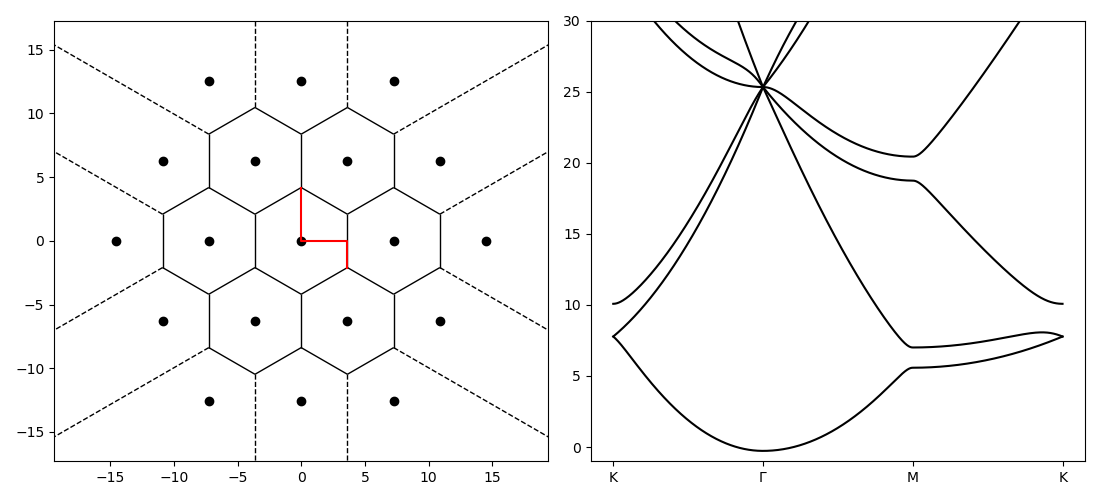
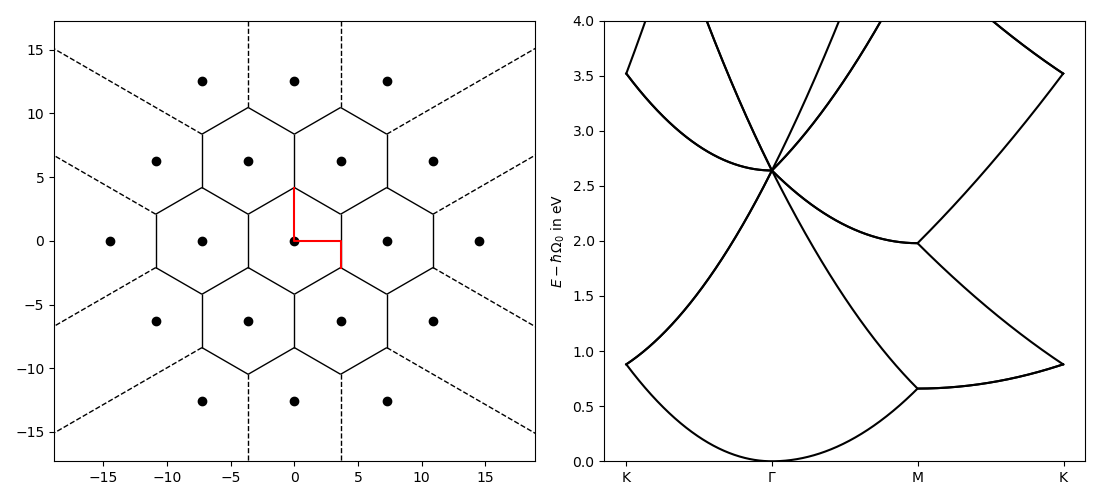
added unit prefix finder

diff --git a/bandcalc/examples/bandstructure/moire_hexagonal.py b/bandcalc/examples/bandstructure/moire_hexagonal.py
@@ -37,7 +37,7 @@ m = bandcalc.generate_reciprocal_lattice_basis(rec_m)
 
 if potential == "MoS2":
     # Moire potential coefficients
-    V = 12.4*np.exp(1j*81.5*np.pi/180)
+    V = 12.4*1e-3*np.exp(1j*81.5*np.pi/180) # in eV
     Vj = np.array([V if i%2 else np.conjugate(V) for i in range(1, 7)])
     # Reciprocal moire lattice vectors
     G = bandcalc.generate_twisted_lattice_by_shell(b, b, angle, 1)
@@ -73,7 +73,9 @@ path = bandcalc.generate_k_path(points, N)
 k_names = [r"$\kappa$", r"$\gamma$", r"$\kappa$"]
 
 # Calculate the band structure (no potential)
-bandstructure = bandcalc.calc_bandstructure(points, rec_moire_lattice, N, potential_fun)
+bandstructure, prefix = bandcalc.get_unit_prefix(
+        bandcalc.calc_bandstructure(points, rec_moire_lattice, N, potential_fun))
+
 
 # Plot the results
 
@@ -87,7 +89,7 @@ axs[0].set_xlabel(r"nm")
 axs[0].set_ylabel(r"nm")
 
 bandcalc.plot_bandstructure(axs[1], np.abs(bandstructure), k_names, "k")
-axs[1].set_ylabel(r"$E - \hbar\Omega_0$ in meV")
+axs[1].set_ylabel(r"$E - \hbar\Omega_0$ in {}eV".format(prefix))
 
 plt.tight_layout()
 plt.show()

diff --git a/bandcalc/examples/bandstructure/hexagonal.py b/bandcalc/examples/bandstructure/hexagonal.py
@@ -1,6 +1,6 @@
 import numpy as np
 import matplotlib.pyplot as plt
-from scipy.spatial import Voronoi, voronoi_plot_2d
+from scipy.spatial import Voronoi, voronoi_plot_2d #pylint: disable=E0611
 
 import bandcalc
 
@@ -26,7 +26,8 @@ path = bandcalc.generate_k_path(points, N)
 vor = Voronoi(lattice)
 
 # Calculate band structure
-bandstructure = bandcalc.calc_bandstructure(points, lattice, N)
+bandstructure, prefix = bandcalc.get_unit_prefix(
+        bandcalc.calc_bandstructure(points, lattice, N))
 
 # Plots
 fig, ax = plt.subplots(nrows=1, ncols=2, figsize=(11,5))
@@ -35,7 +36,8 @@ bandcalc.plot_k_path(ax[0], path, "r")
 voronoi_plot_2d(vor, ax[0], show_points=False, show_vertices=False)
 bandcalc.plot_bandstructure(ax[1], bandstructure, k_names, "k")
 
-ax[1].set_ylim([-1, 30])
+ax[1].set_ylabel(r"$E - \hbar\Omega_0$ in {}eV".format(prefix))
+ax[1].set_ylim([0, 4])
 
 plt.tight_layout()
 plt.show()

diff --git a/bandcalc/examples/bandstructure/quadratic.py b/bandcalc/examples/bandstructure/quadratic.py
@@ -6,7 +6,6 @@ import bandcalc
 
 # Constants
 a = 1
-V = 1
 N = 1000
 
 # Reciprocal lattice vectors
@@ -27,7 +26,8 @@ path = bandcalc.generate_k_path(points, N)
 vor = Voronoi(lattice)
 
 # Calculate band structure
-bandstructure = bandcalc.calc_bandstructure(points, lattice, N)
+bandstructure, prefix = bandcalc.get_unit_prefix(
+        bandcalc.calc_bandstructure(points, lattice, N))
 
 # Plots
 fig, ax = plt.subplots(nrows=1, ncols=2, figsize=(11,5))
@@ -36,7 +36,8 @@ bandcalc.plot_k_path(ax[0], path, "r")
 voronoi_plot_2d(vor, ax[0], show_points=False, show_vertices=False)
 bandcalc.plot_bandstructure(ax[1], bandstructure, k_names, "k")
 
-ax[1].set_ylim([-1, 30])
+ax[1].set_ylabel(r"$E - \hbar\Omega_0$ in {}eV".format(prefix))
+ax[1].set_ylim([0, 4])
 
 plt.tight_layout()
 plt.show()

diff --git a/bandcalc/examples/bandstructure/cubic.py b/bandcalc/examples/bandstructure/cubic.py
@@ -26,7 +26,8 @@ k_names = [r"$\Gamma$", r"X", r"M", r"$\Gamma$", r"R"]
 path = bandcalc.generate_k_path(points, N)
 
 # Calculate band structure
-bandstructure = bandcalc.calc_bandstructure(points, lattice, N)
+bandstructure, prefix = bandcalc.get_unit_prefix(
+        bandcalc.calc_bandstructure(points, lattice, N))
 
 # Plots
 fig = plt.figure(figsize=(11,5))
@@ -36,7 +37,8 @@ bandcalc.plot_lattice_3d(ax0, lattice, "ko")
 bandcalc.plot_k_path_3d(ax0, path, "r")
 bandcalc.plot_bandstructure(ax1, bandstructure, k_names, "k")
 
-ax1.set_ylim([-1, 30])
+ax1.set_ylabel(r"$E - \hbar\Omega_0$ in {}eV".format(prefix))
+ax1.set_ylim([0, 4])
 
 plt.tight_layout()
 plt.show()

diff --git a/bandcalc/core/tools.py b/bandcalc/core/tools.py
@@ -1,0 +1,29 @@
+import numpy as np
+
+from bandcalc.constants import unit_prefixes
+
+def get_unit_prefix(data):
+    """
+    Suggest a unit prefix for given *data*, to make it more readable
+
+    :param data: find unit prefix for this data
+
+    :type data: numpy.ndarray
+
+    :rtype: tuple(numpy.ndarray, str)
+    """
+
+    max = np.abs(data).max()
+
+    if max == 0:
+        return (data, "")
+
+    exponent = int(np.floor(np.log(max)/np.log(1000)))*3
+
+    if exponent in unit_prefixes:
+        data *= 10**(-exponent)
+        prefix = unit_prefixes[exponent]
+        return (data, prefix)
+
+    return (data, "")
+

diff --git a/bandcalc/core/calc.py b/bandcalc/core/calc.py
@@ -28,7 +28,7 @@ def eps_0(k, G):
     :rtype: float
     """
 
-    return hbar**2/(2*m)*np.sum((k-G)**2, axis=1)*1e18
+    return hbar**2/(2*m)*np.sum((k-G)**2, axis=1)*1e18/e # in eV
 
 def calc_hamiltonian(k, lattice, potential_matrix):
     """
@@ -43,7 +43,7 @@ def calc_hamiltonian(k, lattice, potential_matrix):
     :rtype: numpy.ndarray
     """
 
-    diagonal = np.diag(eps_0(k, lattice))*1e3/e
+    diagonal = np.diag(eps_0(k, lattice))
     return potential_matrix + diagonal
 
 def calc_potential_matrix(lattice, potential_fun=None, *args):

diff --git a/bandcalc/constants/constants.py b/bandcalc/constants/constants.py
@@ -1,3 +1,13 @@
+unit_prefixes = {
+        -9: "n",
+        -6: r"$\mu$",
+        -3: "m",
+        0:  "",
+        3:  "k",
+        6:  "M",
+        9:  "G",
+}
+
 lattice_constants = {
         "MoS2": 0.319e-9,
 }

diff --git a/bandcalc/core/__init__.py b/bandcalc/core/__init__.py
@@ -1,3 +1,4 @@
 from .generate import *
 from .plot import *
 from .calc import *
+from .tools import *
